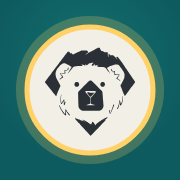
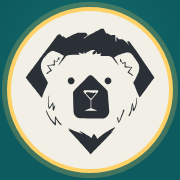
Icône de l'appli : ours plus gros
Claude-Session: https://claude.ai/code/session_01AiL47gDfi8VpbwkxJYH749

diff --git a/sw.js b/sw.js
@@ -1,4 +1,4 @@
-const VERSION = "697dfdfed9";
+const VERSION = "23a0599858";
 const CACHE = "fete-arbas-" + VERSION;
 const CORE = ["./", "icons/apple-touch-icon.png", "icons/favicon-32.png", "icons/icon-192.png", "icons/icon-512.png", "icons/maskable-192.png", "icons/maskable-512.png", "manifest.webmanifest"];    // indispensables : la page, le manifeste, les icônes
 const MEDIA = ["audio/acclame.mp3", "audio/accueil.mp3", "audio/bombe-boum.mp3", "audio/bombe-tictac.mp3", "audio/brebis.mp3", "audio/clac1.wav", "audio/clac2.wav", "audio/decu.mp3", "audio/guepes1.mp3", "audio/guepes2.mp3", "audio/guepes3.mp3", "audio/guepes4.mp3", "audio/guepes5.mp3", "audio/moyen.mp3", "audio/parfait.mp3", "audio/petanque.mp3", "audio/tapas.mp3", "audio/tour.mp3", "images/allemagne.webp", "images/churchill.webp", "images/dos-carte.webp", "images/neptune.webp", "images/neville.webp", "images/rolling-stones.webp"];  // sons et images : un fichier qui échoue n'empêche pas les autres
